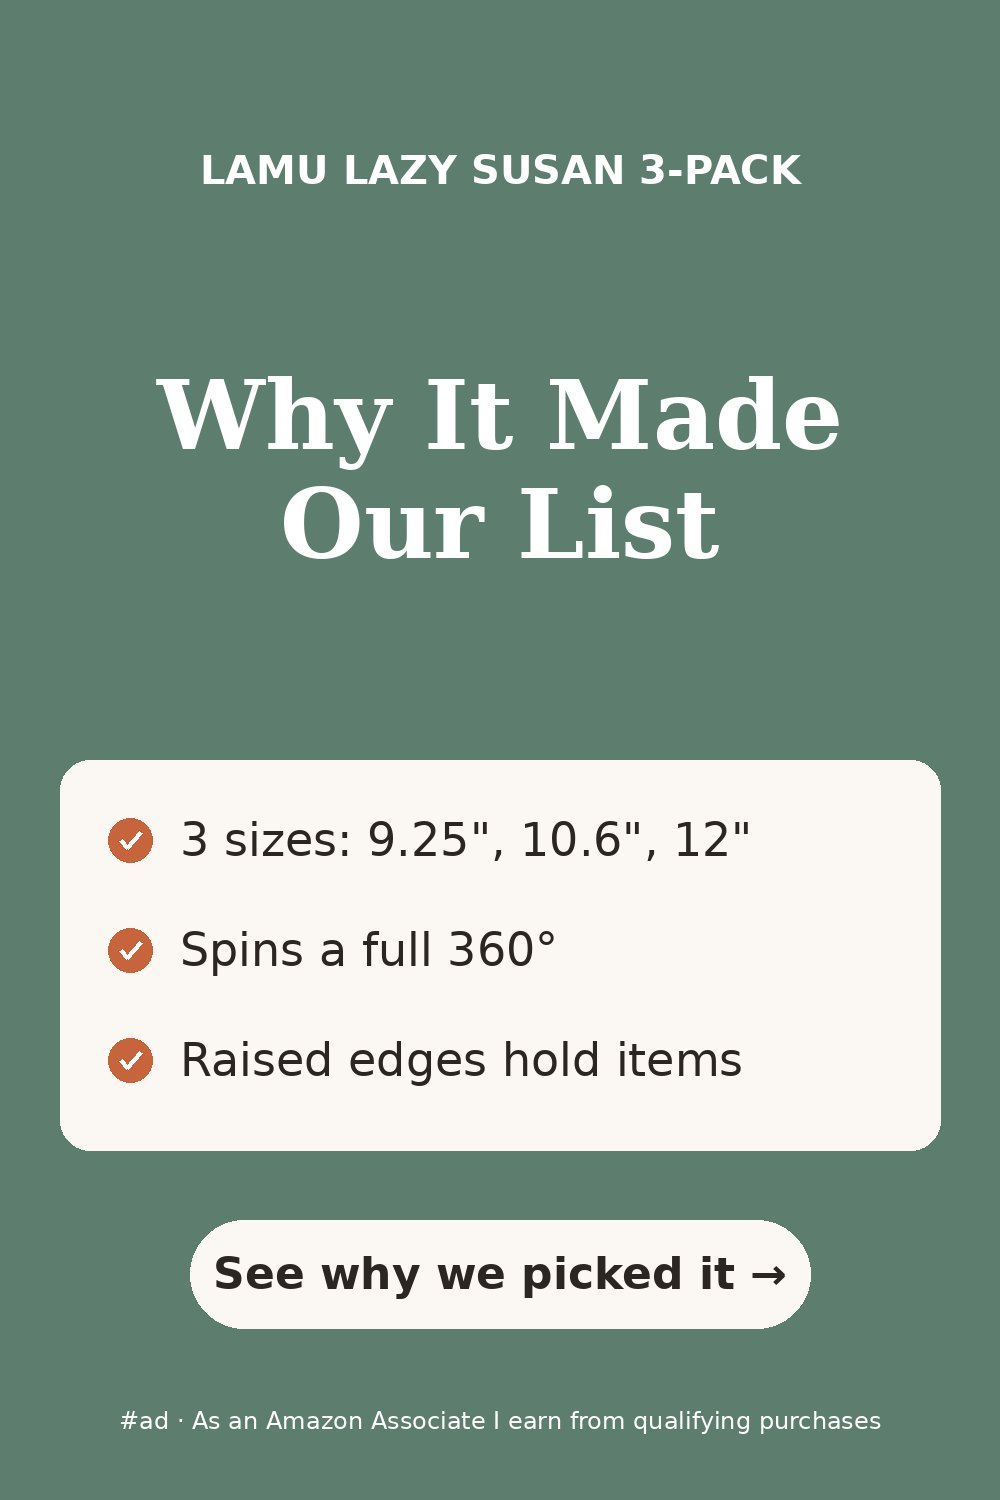
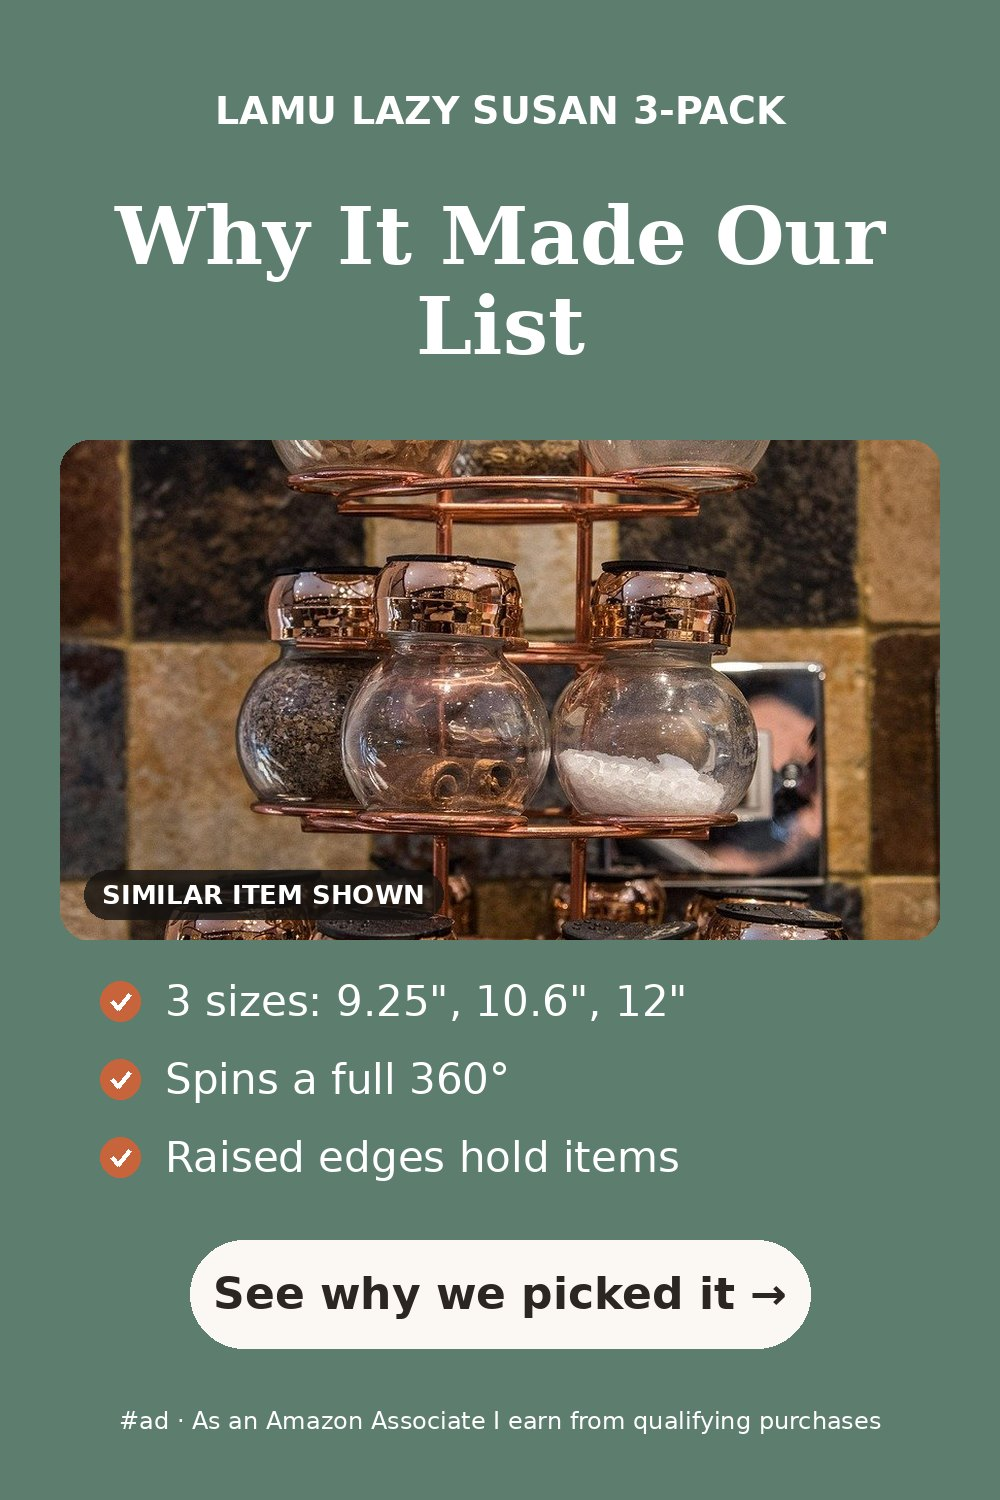
2 more product photos (36 of 62) and extra Pixabay searches (#41)
* Photos: extra Pixabay searches for hard-to-find product types

Each type can now list extra (query, tag) searches; the picker pools their
results, still skipping rejected photos. Searches are cached and spaced to
stay under Pixabay's 100 requests/minute.

Claude-Session: https://claude.ai/code/session_013Z8sgWpeXJjzgrsHKLojtB

* Add similar-item photos for products that had none

* Add 2 more Pixabay photos (36 of 62), reject 26 off-target picks

Third run with extra searches for the 28 hard products. Kept a travel coffee
cup (Thermos travel mug) and a rotating spice carousel (lazy Susan).
Rejected 26 (computer chip, sunflower field, plastic cups, soup, ...) and
recorded them in rejected.json.

Claude-Session: https://claude.ai/code/session_013Z8sgWpeXJjzgrsHKLojtB

---------

diff --git a/site/public/index.html b/site/public/index.html
@@ -316,7 +316,7 @@ try{navigator.sendBeacon('/click.php',new URLSearchParams({p:location.pathname,a
       </article>
       <article class="card" id="B0CNCWY7N6" data-pl="card">
         <a class="img" href="https://www.amazon.com/dp/B0CNCWY7N6?tag=kitchenfi0fde-20" rel="sponsored nofollow noopener" target="_blank">
-          <picture><source srcset="img/B0CNCWY7N6-sq.webp" type="image/webp"><img src="img/B0CNCWY7N6-sq.png" alt="LAMU 3-Pack Lazy Susan Turntable Organizers" loading="lazy" width="800" height="800"></picture>
+          <picture><source srcset="img/B0CNCWY7N6-sq.webp" type="image/webp"><img src="img/B0CNCWY7N6-sq.png" alt="LAMU 3-Pack Lazy Susan Turntable Organizers (photo shows a similar lazy susan, not this exact product)" loading="lazy" width="800" height="800"></picture>
         </a>
         <div class="body">
           <h3><a href="picks/lamu-3-pack-lazy-susan-turntable-organizers/">LAMU 3-Pack Lazy Susan Turntable Organizers</a></h3>
@@ -837,7 +837,7 @@ try{navigator.sendBeacon('/click.php',new URLSearchParams({p:location.pathname,a
       </article>
       <article class="card" id="B08JWMVB43" data-pl="card">
         <a class="img" href="https://www.amazon.com/dp/B08JWMVB43?tag=kitchenfi0fde-20" rel="sponsored nofollow noopener" target="_blank">
-          <picture><source srcset="img/B08JWMVB43-sq.webp" type="image/webp"><img src="img/B08JWMVB43-sq.png" alt="THERMOS Stainless King Travel Mug with Handle, 16 oz" loading="lazy" width="800" height="800"></picture>
+          <picture><source srcset="img/B08JWMVB43-sq.webp" type="image/webp"><img src="img/B08JWMVB43-sq.png" alt="THERMOS Stainless King Travel Mug with Handle, 16 oz (photo shows a similar travel mug, not this exact product)" loading="lazy" width="800" height="800"></picture>
         </a>
         <div class="body">
           <h3><a href="picks/thermos-stainless-king-travel-mug-with-handle-16-oz/">THERMOS Stainless King Travel Mug with Handle, 16 oz</a></h3>

diff --git a/site/public/picks/thermos-stainless-king-travel-mug-with-handle-16-oz/index.html b/site/public/picks/thermos-stainless-king-travel-mug-with-handle-16-oz/index.html
@@ -160,9 +160,9 @@ try{navigator.sendBeacon('/click.php',new URLSearchParams({p:location.pathname,a
     <article class="pick" id="B08JWMVB43" data-pl="pick">
       <div class="media">
       <a class="img" href="https://www.amazon.com/dp/B08JWMVB43?tag=kitchenfi0fde-20" rel="sponsored nofollow noopener" target="_blank">
-        <picture><source srcset="../../img/B08JWMVB43-sq.webp" type="image/webp"><img src="../../img/B08JWMVB43-sq.png" alt="THERMOS Stainless King Travel Mug with Handle, 16 oz" loading="eager" fetchpriority="high" width="800" height="800"></picture>
+        <picture><source srcset="../../img/B08JWMVB43-sq.webp" type="image/webp"><img src="../../img/B08JWMVB43-sq.png" alt="THERMOS Stainless King Travel Mug with Handle, 16 oz (photo shows a similar travel mug, not this exact product)" loading="eager" fetchpriority="high" width="800" height="800"></picture>
       </a>
-      
+      <p class="photo-note">Photo shows a similar travel mug, not this exact product. See the real product photos on Amazon. Photo: <a href="https://pixabay.com/photos/coffee-mug-coffee-to-go-coffee-1727048/" rel="nofollow noopener">Alexas_Fotos / Pixabay</a></p>
       </div>
       <div class="info">
         <h1>THERMOS Stainless King Travel Mug with Handle, 16 oz</h1>

diff --git a/site/public/picks/lamu-3-pack-lazy-susan-turntable-organizers/index.html b/site/public/picks/lamu-3-pack-lazy-susan-turntable-organizers/index.html
@@ -160,9 +160,9 @@ try{navigator.sendBeacon('/click.php',new URLSearchParams({p:location.pathname,a
     <article class="pick" id="B0CNCWY7N6" data-pl="pick">
       <div class="media">
       <a class="img" href="https://www.amazon.com/dp/B0CNCWY7N6?tag=kitchenfi0fde-20" rel="sponsored nofollow noopener" target="_blank">
-        <picture><source srcset="../../img/B0CNCWY7N6-sq.webp" type="image/webp"><img src="../../img/B0CNCWY7N6-sq.png" alt="LAMU 3-Pack Lazy Susan Turntable Organizers" loading="eager" fetchpriority="high" width="800" height="800"></picture>
+        <picture><source srcset="../../img/B0CNCWY7N6-sq.webp" type="image/webp"><img src="../../img/B0CNCWY7N6-sq.png" alt="LAMU 3-Pack Lazy Susan Turntable Organizers (photo shows a similar lazy susan, not this exact product)" loading="eager" fetchpriority="high" width="800" height="800"></picture>
       </a>
-      
+      <p class="photo-note">Photo shows a similar lazy susan, not this exact product. See the real product photos on Amazon. Photo: <a href="https://pixabay.com/photos/beautiful-spice-set-glass-jars-4226035/" rel="nofollow noopener">atanaspaskalev / Pixabay</a></p>
       </div>
       <div class="info">
         <h1>LAMU 3-Pack Lazy Susan Turntable Organizers</h1>

diff --git a/site/public/drinkware/index.html b/site/public/drinkware/index.html
@@ -190,7 +190,7 @@ try{navigator.sendBeacon('/click.php',new URLSearchParams({p:location.pathname,a
       </article>
       <article class="card" id="B08JWMVB43" data-pl="card">
         <a class="img" href="https://www.amazon.com/dp/B08JWMVB43?tag=kitchenfi0fde-20" rel="sponsored nofollow noopener" target="_blank">
-          <picture><source srcset="/img/B08JWMVB43-sq.webp" type="image/webp"><img src="/img/B08JWMVB43-sq.png" alt="THERMOS Stainless King Travel Mug with Handle, 16 oz" loading="eager" fetchpriority="high" width="800" height="800"></picture>
+          <picture><source srcset="/img/B08JWMVB43-sq.webp" type="image/webp"><img src="/img/B08JWMVB43-sq.png" alt="THERMOS Stainless King Travel Mug with Handle, 16 oz (photo shows a similar travel mug, not this exact product)" loading="eager" fetchpriority="high" width="800" height="800"></picture>
         </a>
         <div class="body">
           <h3><a href="/picks/thermos-stainless-king-travel-mug-with-handle-16-oz/">THERMOS Stainless King Travel Mug with Handle, 16 oz</a></h3>

diff --git a/site/public/picks/contigo-west-loop-autoseal-travel-mug-16-oz/index.html b/site/public/picks/contigo-west-loop-autoseal-travel-mug-16-oz/index.html
@@ -197,7 +197,7 @@ try{navigator.sendBeacon('/click.php',new URLSearchParams({p:location.pathname,a
       </article>
       <article class="card" id="B08JWMVB43" data-pl="card">
         <a class="img" href="https://www.amazon.com/dp/B08JWMVB43?tag=kitchenfi0fde-20" rel="sponsored nofollow noopener" target="_blank">
-          <picture><source srcset="../../img/B08JWMVB43-sq.webp" type="image/webp"><img src="../../img/B08JWMVB43-sq.png" alt="THERMOS Stainless King Travel Mug with Handle, 16 oz" loading="lazy" width="800" height="800"></picture>
+          <picture><source srcset="../../img/B08JWMVB43-sq.webp" type="image/webp"><img src="../../img/B08JWMVB43-sq.png" alt="THERMOS Stainless King Travel Mug with Handle, 16 oz (photo shows a similar travel mug, not this exact product)" loading="lazy" width="800" height="800"></picture>
         </a>
         <div class="body">
           <h3><a href="../../picks/thermos-stainless-king-travel-mug-with-handle-16-oz/">THERMOS Stainless King Travel Mug with Handle, 16 oz</a></h3>

diff --git a/site/public/picks/hydrojug-traveler-insulated-bottle-40-oz/index.html b/site/public/picks/hydrojug-traveler-insulated-bottle-40-oz/index.html
@@ -208,7 +208,7 @@ try{navigator.sendBeacon('/click.php',new URLSearchParams({p:location.pathname,a
       </article>
       <article class="card" id="B08JWMVB43" data-pl="card">
         <a class="img" href="https://www.amazon.com/dp/B08JWMVB43?tag=kitchenfi0fde-20" rel="sponsored nofollow noopener" target="_blank">
-          <picture><source srcset="../../img/B08JWMVB43-sq.webp" type="image/webp"><img src="../../img/B08JWMVB43-sq.png" alt="THERMOS Stainless King Travel Mug with Handle, 16 oz" loading="lazy" width="800" height="800"></picture>
+          <picture><source srcset="../../img/B08JWMVB43-sq.webp" type="image/webp"><img src="../../img/B08JWMVB43-sq.png" alt="THERMOS Stainless King Travel Mug with Handle, 16 oz (photo shows a similar travel mug, not this exact product)" loading="lazy" width="800" height="800"></picture>
         </a>
         <div class="body">
           <h3><a href="../../picks/thermos-stainless-king-travel-mug-with-handle-16-oz/">THERMOS Stainless King Travel Mug with Handle, 16 oz</a></h3>

diff --git a/site/public/picks/owala-freesip-insulated-water-bottle-24-oz/index.html b/site/public/picks/owala-freesip-insulated-water-bottle-24-oz/index.html
@@ -208,7 +208,7 @@ try{navigator.sendBeacon('/click.php',new URLSearchParams({p:location.pathname,a
       </article>
       <article class="card" id="B08JWMVB43" data-pl="card">
         <a class="img" href="https://www.amazon.com/dp/B08JWMVB43?tag=kitchenfi0fde-20" rel="sponsored nofollow noopener" target="_blank">
-          <picture><source srcset="../../img/B08JWMVB43-sq.webp" type="image/webp"><img src="../../img/B08JWMVB43-sq.png" alt="THERMOS Stainless King Travel Mug with Handle, 16 oz" loading="lazy" width="800" height="800"></picture>
+          <picture><source srcset="../../img/B08JWMVB43-sq.webp" type="image/webp"><img src="../../img/B08JWMVB43-sq.png" alt="THERMOS Stainless King Travel Mug with Handle, 16 oz (photo shows a similar travel mug, not this exact product)" loading="lazy" width="800" height="800"></picture>
         </a>
         <div class="body">
           <h3><a href="../../picks/thermos-stainless-king-travel-mug-with-handle-16-oz/">THERMOS Stainless King Travel Mug with Handle, 16 oz</a></h3>

diff --git a/site/public/picks/owala-smoothsip-slider-coffee-tumbler-12-oz/index.html b/site/public/picks/owala-smoothsip-slider-coffee-tumbler-12-oz/index.html
@@ -208,7 +208,7 @@ try{navigator.sendBeacon('/click.php',new URLSearchParams({p:location.pathname,a
       </article>
       <article class="card" id="B08JWMVB43" data-pl="card">
         <a class="img" href="https://www.amazon.com/dp/B08JWMVB43?tag=kitchenfi0fde-20" rel="sponsored nofollow noopener" target="_blank">
-          <picture><source srcset="../../img/B08JWMVB43-sq.webp" type="image/webp"><img src="../../img/B08JWMVB43-sq.png" alt="THERMOS Stainless King Travel Mug with Handle, 16 oz" loading="lazy" width="800" height="800"></picture>
+          <picture><source srcset="../../img/B08JWMVB43-sq.webp" type="image/webp"><img src="../../img/B08JWMVB43-sq.png" alt="THERMOS Stainless King Travel Mug with Handle, 16 oz (photo shows a similar travel mug, not this exact product)" loading="lazy" width="800" height="800"></picture>
         </a>
         <div class="body">
           <h3><a href="../../picks/thermos-stainless-king-travel-mug-with-handle-16-oz/">THERMOS Stainless King Travel Mug with Handle, 16 oz</a></h3>

diff --git a/site/public/picks/stanley-quencher-h2-0-flowstate-tumbler-40-oz/index.html b/site/public/picks/stanley-quencher-h2-0-flowstate-tumbler-40-oz/index.html
@@ -208,7 +208,7 @@ try{navigator.sendBeacon('/click.php',new URLSearchParams({p:location.pathname,a
       </article>
       <article class="card" id="B08JWMVB43" data-pl="card">
         <a class="img" href="https://www.amazon.com/dp/B08JWMVB43?tag=kitchenfi0fde-20" rel="sponsored nofollow noopener" target="_blank">
-          <picture><source srcset="../../img/B08JWMVB43-sq.webp" type="image/webp"><img src="../../img/B08JWMVB43-sq.png" alt="THERMOS Stainless King Travel Mug with Handle, 16 oz" loading="lazy" width="800" height="800"></picture>
+          <picture><source srcset="../../img/B08JWMVB43-sq.webp" type="image/webp"><img src="../../img/B08JWMVB43-sq.png" alt="THERMOS Stainless King Travel Mug with Handle, 16 oz (photo shows a similar travel mug, not this exact product)" loading="lazy" width="800" height="800"></picture>
         </a>
         <div class="body">
           <h3><a href="../../picks/thermos-stainless-king-travel-mug-with-handle-16-oz/">THERMOS Stainless King Travel Mug with Handle, 16 oz</a></h3>

diff --git a/site/public/picks/yeti-rambler-20-oz-tumbler-with-magslider-lid/index.html b/site/public/picks/yeti-rambler-20-oz-tumbler-with-magslider-lid/index.html
@@ -197,7 +197,7 @@ try{navigator.sendBeacon('/click.php',new URLSearchParams({p:location.pathname,a
       </article>
       <article class="card" id="B08JWMVB43" data-pl="card">
         <a class="img" href="https://www.amazon.com/dp/B08JWMVB43?tag=kitchenfi0fde-20" rel="sponsored nofollow noopener" target="_blank">
-          <picture><source srcset="../../img/B08JWMVB43-sq.webp" type="image/webp"><img src="../../img/B08JWMVB43-sq.png" alt="THERMOS Stainless King Travel Mug with Handle, 16 oz" loading="lazy" width="800" height="800"></picture>
+          <picture><source srcset="../../img/B08JWMVB43-sq.webp" type="image/webp"><img src="../../img/B08JWMVB43-sq.png" alt="THERMOS Stainless King Travel Mug with Handle, 16 oz (photo shows a similar travel mug, not this exact product)" loading="lazy" width="800" height="800"></picture>
         </a>
         <div class="body">
           <h3><a href="../../picks/thermos-stainless-king-travel-mug-with-handle-16-oz/">THERMOS Stainless King Travel Mug with Handle, 16 oz</a></h3>

diff --git a/site/public/picks/clearspace-clear-plastic-storage-bins-4-pack/index.html b/site/public/picks/clearspace-clear-plastic-storage-bins-4-pack/index.html
@@ -208,7 +208,7 @@ try{navigator.sendBeacon('/click.php',new URLSearchParams({p:location.pathname,a
       </article>
       <article class="card" id="B0CNCWY7N6" data-pl="card">
         <a class="img" href="https://www.amazon.com/dp/B0CNCWY7N6?tag=kitchenfi0fde-20" rel="sponsored nofollow noopener" target="_blank">
-          <picture><source srcset="../../img/B0CNCWY7N6-sq.webp" type="image/webp"><img src="../../img/B0CNCWY7N6-sq.png" alt="LAMU 3-Pack Lazy Susan Turntable Organizers" loading="lazy" width="800" height="800"></picture>
+          <picture><source srcset="../../img/B0CNCWY7N6-sq.webp" type="image/webp"><img src="../../img/B0CNCWY7N6-sq.png" alt="LAMU 3-Pack Lazy Susan Turntable Organizers (photo shows a similar lazy susan, not this exact product)" loading="lazy" width="800" height="800"></picture>
         </a>
         <div class="body">
           <h3><a href="../../picks/lamu-3-pack-lazy-susan-turntable-organizers/">LAMU 3-Pack Lazy Susan Turntable Organizers</a></h3>

diff --git a/site/public/picks/kitchen-details-3-tier-can-organizer-chrome/index.html b/site/public/picks/kitchen-details-3-tier-can-organizer-chrome/index.html
@@ -208,7 +208,7 @@ try{navigator.sendBeacon('/click.php',new URLSearchParams({p:location.pathname,a
       </article>
       <article class="card" id="B0CNCWY7N6" data-pl="card">
         <a class="img" href="https://www.amazon.com/dp/B0CNCWY7N6?tag=kitchenfi0fde-20" rel="sponsored nofollow noopener" target="_blank">
-          <picture><source srcset="../../img/B0CNCWY7N6-sq.webp" type="image/webp"><img src="../../img/B0CNCWY7N6-sq.png" alt="LAMU 3-Pack Lazy Susan Turntable Organizers" loading="lazy" width="800" height="800"></picture>
+          <picture><source srcset="../../img/B0CNCWY7N6-sq.webp" type="image/webp"><img src="../../img/B0CNCWY7N6-sq.png" alt="LAMU 3-Pack Lazy Susan Turntable Organizers (photo shows a similar lazy susan, not this exact product)" loading="lazy" width="800" height="800"></picture>
         </a>
         <div class="body">
           <h3><a href="../../picks/lamu-3-pack-lazy-susan-turntable-organizers/">LAMU 3-Pack Lazy Susan Turntable Organizers</a></h3>
